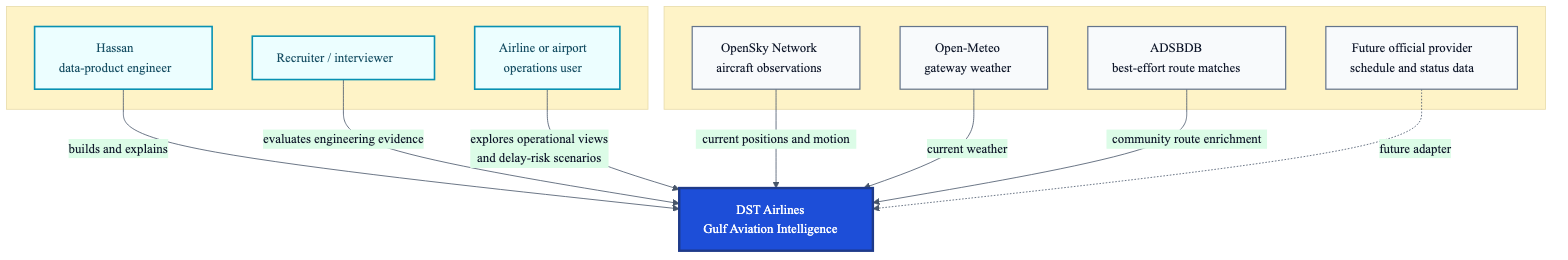
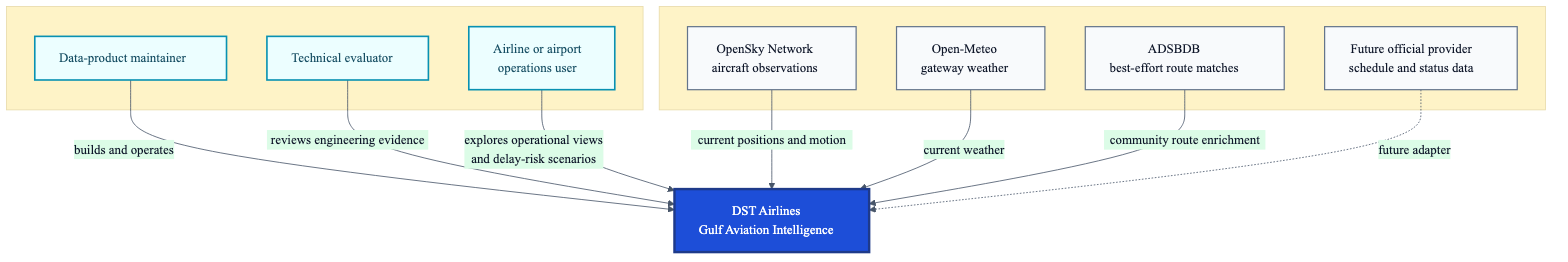
chore: streamline project documentation

diff --git a/README.md b/README.md
@@ -2,6 +2,8 @@
 
 An end-to-end aviation data product for exploring Saudi Arabian and UAE airspace, operational patterns, airport and airline performance, route networks, and transparent delay-risk scenarios.
 
+**[Open the live application](https://airlines.hassansalamb.dev/)** · **[Architecture](docs/ARCHITECTURE.md)** · **[Operations](docs/operations/DEPLOYMENT.md)**
+
 The project demonstrates how to turn imperfect external aviation data into a useful and honest decision-support experience: current aircraft observations are kept separate from simulated historical operations, and model output is presented as a portfolio scenario rather than an official flight forecast.
 
 ![End-to-end Gulf aviation data flow](docs/architecture/02-end-to-end-data-flow.png)
@@ -81,8 +83,7 @@ The durable trade-offs are recorded in [`docs/adr`](docs/adr).
 │   ├── operations/              Deployment, security, and recovery runbooks
 │   ├── ARCHITECTURE.md           Multi-level architecture walkthrough
 │   ├── CI_CD.md                  Pipeline details
-│   ├── INTERVIEW_GUIDE.md        Interview narrative and technical Q&A
-│   └── PORTFOLIO_STRATEGY.md     Improvement plan for both portfolio projects
+│   └── CI_CD.md                  Pipeline details
 ├── k8s/                         Kubernetes resources
 ├── monitoring/                  Prometheus and Grafana configuration
 ├── scripts/                     Deployment and backup automation
@@ -233,24 +234,29 @@ GitHub Actions also validates Terraform formatting, builds both images, scans th
 - Docker Compose: implemented for development, full-stack, and production-oriented runs.
 - Kubernetes: manifests and repeatable Kind/Minikube deployment implemented.
 - Terraform: Docker infrastructure implemented for local or SSH-connected Docker hosts.
-- Render public edge: target architecture; configure only when a public deployment is authorized.
+- Render public edge: live dashboard deployment from the `main` branch.
 - Proxmox data platform: documented target; do not describe it as live until deployment and restore checks pass.
 
 ## Documentation
 
 - [Architecture](docs/ARCHITECTURE.md)
-- [Portfolio strategy for both projects](docs/PORTFOLIO_STRATEGY.md)
-- [Interview preparation](docs/INTERVIEW_GUIDE.md)
 - [Deployment](docs/operations/DEPLOYMENT.md)
 - [Security](docs/operations/SECURITY.md)
 - [Disaster recovery](docs/operations/DISASTER_RECOVERY.md)
 - [CI/CD](docs/CI_CD.md)
 
+## Branch workflow
+
+- `dev` is the integration branch for active development.
+- Changes are tested on `dev` before being merged into `main`.
+- `main` is the release branch and must remain deployable.
+- Only `main` and `dev` are maintained as long-lived branches.
+
 ## Collaboration and ownership
 
 This began as a collaborative DataOps project by Hassan Salam Banayeem, Ali Doghan, and Kristian Boroz. The Gulf-focused product redesign, live Saudi/UAE experience, model-intelligence view, and subsequent portfolio refinements were developed by Hassan Salam Banayeem. Git history remains the source of truth for individual changes.
 
-When presenting the project, distinguish personal contributions from the original team implementation and never claim simulated or community data as proprietary airline data.
+Git history records individual contributions. Simulated and community-sourced data remain explicitly labelled throughout the product and documentation.
 
 ## License and data use
 
